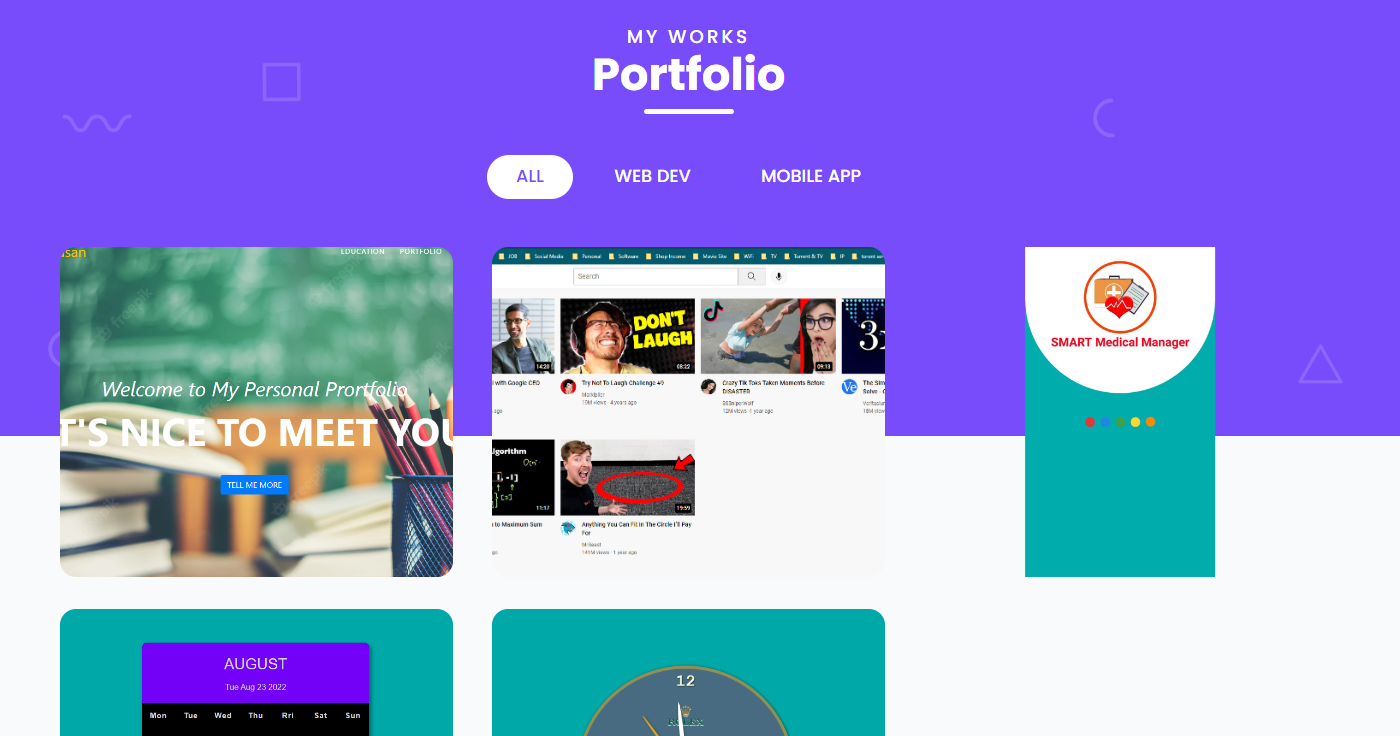
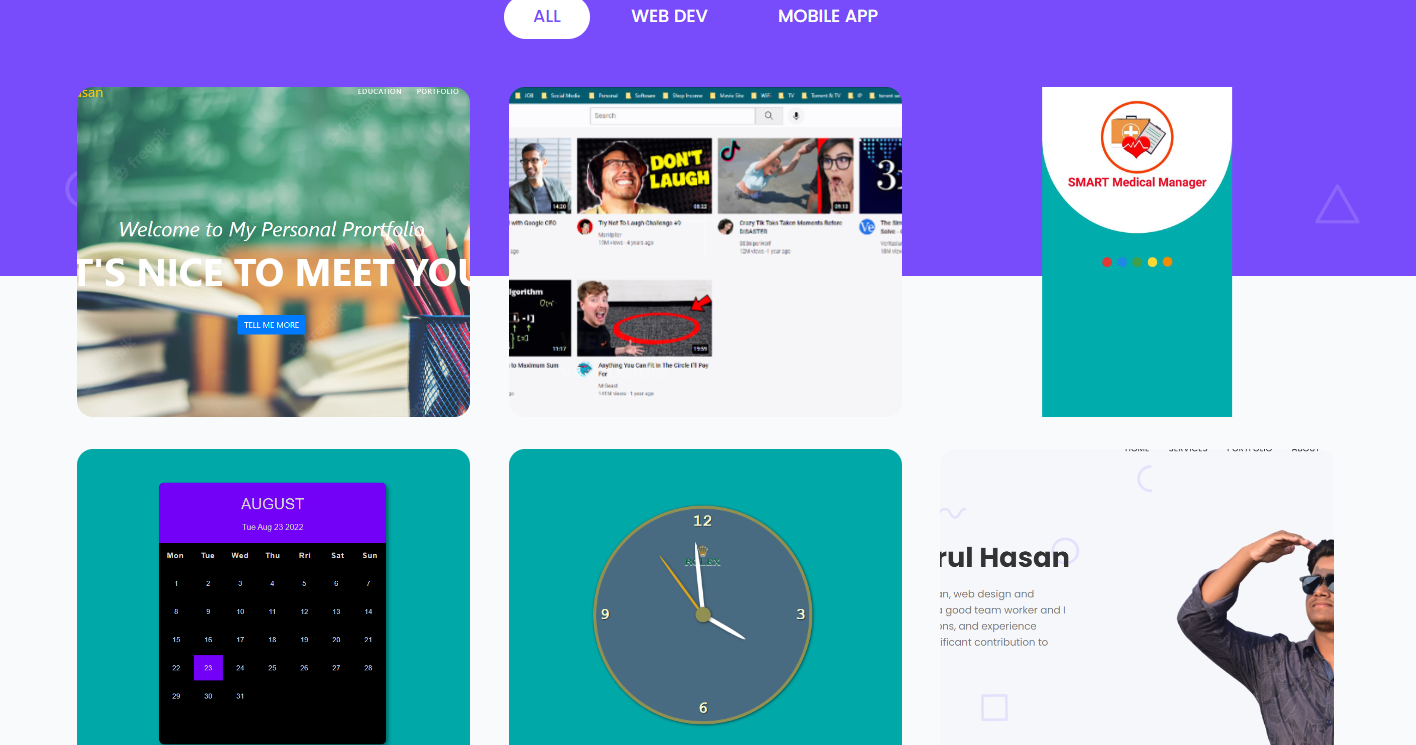
update

diff --git a/index.html b/index.html
@@ -201,7 +201,7 @@
                     <div class="plus"></div>
                     <div class="img-description">
                       <h3>Web Development</h3>
-                      <h5><a class="demo" href="https://github.com/kamrul15-8841/MyPorfolioUsingVueJs"> View Demo</a></h5>
+                      <h5><a class="demo" href="https://github.com/kamrul15-8841/MyPorfolioUsingVueJs"> View Details</a></h5>
                     </div>
                   </div>
                 </div>
@@ -213,7 +213,7 @@
                     <div class="plus"></div>
                     <div class="img-description">
                       <h3>Web Design</h3>
-                      <h5><a class="demo" href="https://github.com/kamrul15-8841/LearnWeb/tree/main/Youtube"> View Demo</a></h5>
+                      <h5><a class="demo" href="https://github.com/kamrul15-8841/LearnWeb/tree/main/Youtube"> View Details</a></h5>
                     </div>
                   </div>
                 </div>
@@ -226,7 +226,7 @@
                     <div class="plus"></div>
                     <div class="img-description">
                       <h3>App Development</h3>
-                      <h5><a class="demo" href="https://github.com/kamrul15-8841/FinalYearProject"> View Demo</a></h5>
+                      <h5><a class="demo" href="https://github.com/kamrul15-8841/FinalYearProject"> View Details</a></h5>
                     </div>
                   </div>
                 </div>
@@ -239,7 +239,7 @@
                     <div class="plus"></div>
                     <div class="img-description">
                       <h3>Web Design</h3>
-                      <h5><a class="demo" href="https://github.com/kamrul15-8841/MonthCalender"> View Demo</a></h5>
+                      <h5><a class="demo" href="https://github.com/kamrul15-8841/MonthCalender"> View Details</a></h5>
                     </div>
                   </div>
                 </div>
@@ -251,19 +251,19 @@
                     <div class="plus"></div>
                     <div class="img-description">
                       <h3>Web Design</h3>
-                      <h5><a class="demo" href="https://kamrul15-8841.github.io/AnalogueClock/"> View Demo</a></h5>
+                      <h5><a class="demo" href="https://github.com/kamrul15-8841/AnalogueClock"> View Details</a></h5>
                     </div>
                   </div>
                 </div>
               </div>
               <div class="grid-item ui webdev">
                 <div class="gallery-image">
-                  <img src="./img/portfolio/port9.png" alt="" />
+                  <img src="./img/portfolio/port10.png" alt="" />
                   <div class="img-overlay">
                     <div class="plus"></div>
                     <div class="img-description">
                       <h3>Web Design</h3>
-                      <h5><a class="demo" href="https://kamrul15-8841.github.io/AnalogueClock/"> View Demo</a></h5>
+                      <h5><a class="demo" href="https://github.com/kamrul15-8841/Portfolio_using_HTML_CSS"> View Details</a></h5>
                     </div>
                   </div>
                 </div>

diff --git a/css/style.css b/css/style.css
@@ -37,7 +37,7 @@ a {
   color: rgb(255, 255, 255);
 }
 .demo:hover{
-  font-size: 50px;
+  font-size: 35px;
   color: sandybrown;
 }
 
